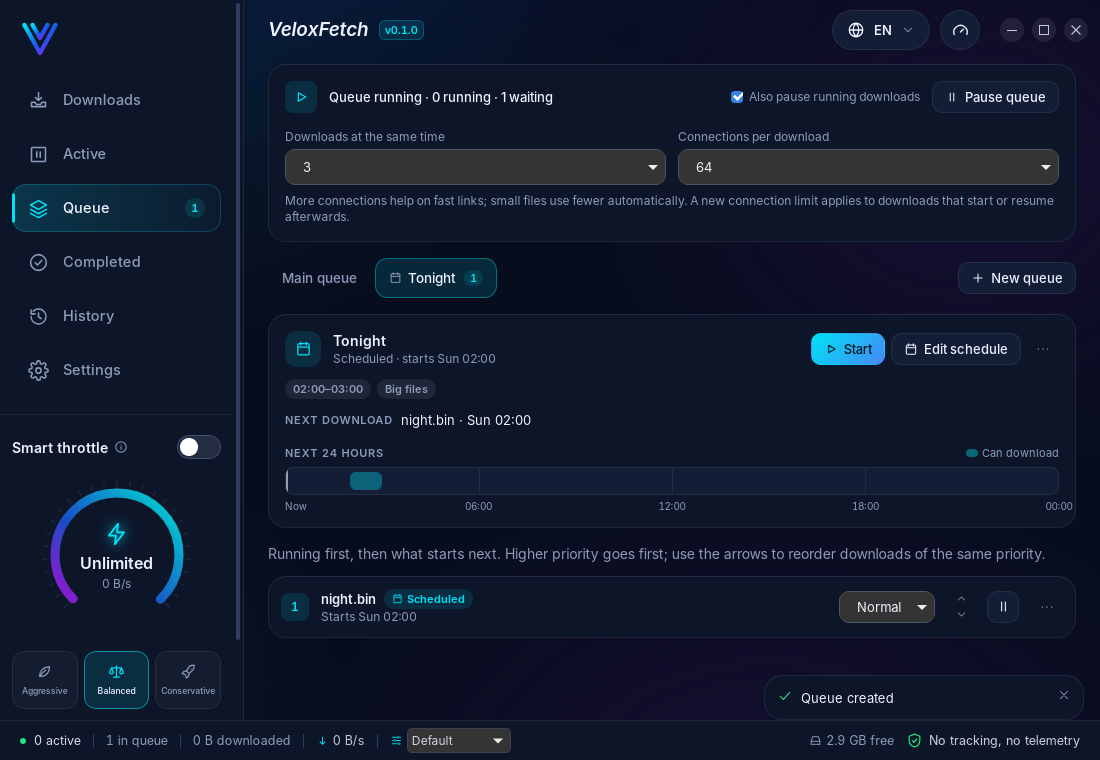
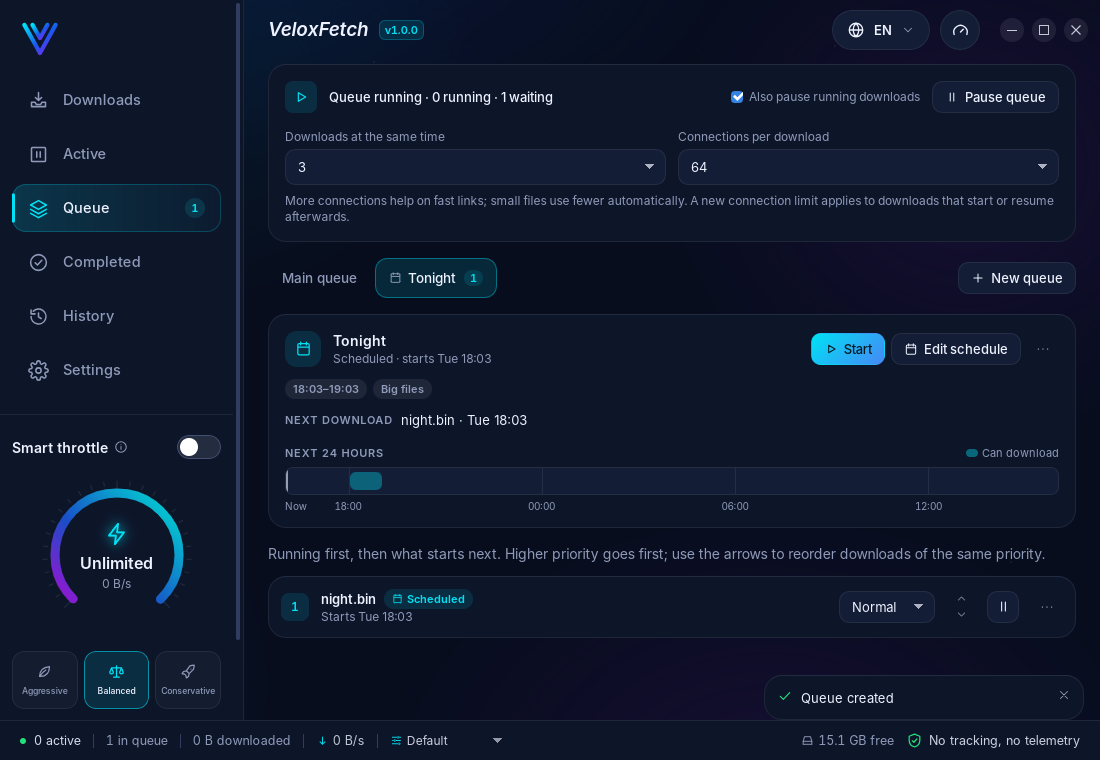
fix: the Queue page's percentages have one decimal, and a download not started yet is named by its link in duplicate answers
The queue's rows showed the raw share (11.992703192112195%): formatPercent gives one decimal everywhere.
A never-started download has no file name yet, so a duplicate answer and the Check link warning showed an
empty one; it is now named by its link's last path part (made safe, else "download"), never the link.
Tests: format.test.ts, desktop-smart-queue.mjs (fails on the old code), duplicates.rs +2. Docs updated.

Claude-Session: https://claude.ai/code/session_018xqgtTPaKDgwEeLobAKTu8

diff --git a/apps/desktop/src/views/DetailView.tsx b/apps/desktop/src/views/DetailView.tsx
@@ -12,7 +12,7 @@ import { PreviewCard } from "../components/PreviewCard";
 import { FileIcon, kindLabel } from "../components/FileIcon";
 import { SignInDialog } from "../components/SignInDialog";
 import { SegmentMap, SegmentRows } from "../components/SegmentMonitor";
-import { formatBytes, formatEta, formatSpeed, fraction, parseRate, percent } from "../format";
+import { formatBytes, formatEta, formatPercent, formatSpeed, fraction, parseRate } from "../format";
 import { useDetail, useDownload } from "../hooks";
 import { PRIORITIES, type Diagnosis, type Priority } from "../types";
 import { Icon } from "../ui/icons";
@@ -170,7 +170,7 @@ export function DetailView({ id, onBack }: { id: number; onBack: () => void }) {
       <Card title={t("det.overview")}>
         <div className="mb-3 flex items-end justify-between">
           <span className="num text-3xl font-semibold leading-none tracking-tight" data-testid="detail-percent">
-            {d.totalSize ? `${percent(d.downloaded, d.totalSize).toFixed(1)}%` : "—"}
+            {d.totalSize ? formatPercent(d.downloaded, d.totalSize) : "—"}
           </span>
           <span className="num text-xs text-dim">
             {formatBytes(d.downloaded)}

diff --git a/apps/desktop/src/components/SmartQueue.tsx b/apps/desktop/src/components/SmartQueue.tsx
@@ -1,7 +1,7 @@
 import { memo, useEffect, useRef, useState } from "react";
 import { createPortal } from "react-dom";
 import { actions } from "../actions";
-import { formatEta, fraction, hostOf, percent } from "../format";
+import { formatEta, formatPercent, fraction, hostOf } from "../format";
 import { useDownload, useStore } from "../hooks";
 import { localError } from "../errors";
 import { t as tr, useT, type Key } from "../i18n";
@@ -305,7 +305,7 @@ export const SmartQueueRow = memo(function SmartQueueRow({ id, position, order, 
         </div>
         <p className="truncate text-xs text-dim" data-testid="sq-why">
           {why ? reasonText(why, d, q) : state === "failed" ? (d.error ? localError(d.errorCode, d.error) : hostOf(d.url)) : hostOf(d.url)}
-          {showBar && d.totalSize ? ` · ${percent(d.downloaded, d.totalSize)}%` : ""}
+          {showBar && d.totalSize ? ` · ${formatPercent(d.downloaded, d.totalSize)}` : ""}
         </p>
         {showBar && <ProgressBar className="mt-1.5" value={frac} live={state === "downloading"} tone={state === "downloading" ? "accent" : state === "retrying" || state === "paused" ? "warn" : "dim"} label={d.filename} />}
       </div>

diff --git a/apps/desktop/src/format.test.ts b/apps/desktop/src/format.test.ts
@@ -1,5 +1,5 @@
 import { describe, expect, it } from "vitest";
-import { formatBytes, formatEta, formatRelative, formatSpeed, fraction, hostOf, isStreamLink, isVideoPage, opensVideoDialog, parseRate, percent } from "./format";
+import { formatBytes, formatEta, formatRelative, formatSpeed, fraction, hostOf, isStreamLink, isVideoPage, opensVideoDialog, parseRate, percent, formatPercent } from "./format";
 
 describe("format", () => {
   it("formats bytes and speeds", () => {
@@ -27,6 +27,10 @@ describe("format", () => {
     expect(percent(5, 0)).toBe(0);
     expect(percent(5, null)).toBe(0);
     expect(percent(500, 100)).toBe(100);
+    // Shown with one decimal everywhere (the queue's rows showed the raw number).
+    expect(formatPercent(1_234_567, 10_294_967)).toBe("12.0%");
+    expect(formatPercent(0, 0)).toBe("0.0%");
+    expect(formatPercent(7, 7)).toBe("100.0%");
     expect(fraction(1, 4)).toBe(0.25);
   });
 

diff --git a/apps/desktop/src/format.ts b/apps/desktop/src/format.ts
@@ -49,6 +49,11 @@ export function percent(done: number, total: number | null | undefined): number 
   return Math.min(100, Math.max(0, (done / total) * 100));
 }
 
+/** A share as the app shows it: one decimal ("12.0%"), never the raw number ("11.992703192112195%"). */
+export function formatPercent(done: number, total: number | null | undefined): string {
+  return `${percent(done, total).toFixed(1)}%`;
+}
+
 /** 0..1 fraction, clamped. */
 export function fraction(done: number, total: number | null | undefined): number {
   return percent(done, total) / 100;

diff --git a/tests/integration/tests/duplicates.rs b/tests/integration/tests/duplicates.rs
@@ -7,7 +7,7 @@ use std::path::PathBuf;
 use std::time::{Duration, Instant};
 
 use download_manager::intelligence::{AnalyzeLink, CheckDuplicate, Confidence, DuplicateDto, DuplicateReason, FileState};
-use download_manager::{DownloadDto, DownloadManager, ManagerConfig, NewDownload};
+use download_manager::{DownloadDto, DownloadManager, ManagerConfig, NewDownload, PauseQueue};
 use downloader_core::DownloadStatus;
 use sha2::{Digest, Sha256};
 use velox_integration_tests::{random_data, serve};
@@ -232,4 +232,34 @@ async fn malformed_links_are_refused_without_touching_anything() {
         assert!(m.check_duplicate(CheckDuplicate { url: bad.into(), checksum: None }).await.is_err(), "{bad}");
     }
     assert!(m.list_downloads(Default::default()).await.unwrap().is_empty());
+}
+
+#[tokio::test]
+async fn a_download_that_has_not_started_yet_is_named_by_its_link() {
+    // A waiting download has no file name yet (it is chosen when it starts): the match is still told by a name, the one
+    // the card shows, never an empty one ("In your list:  · same link").
+    let srv = serve(random_data(64 * KB, 3)).await;
+    let m = manager("unstarted").await;
+    m.pause_queue(PauseQueue { pause_running: false }).await.unwrap();
+    let waiting = add(&m, srv.url("/iso/debian-13.1.0-amd64-netinst.iso")).await;
+    assert_eq!(m.get_download(waiting.id).await.unwrap().status, DownloadStatus::Queued);
+    let d = dup(&m, srv.url("/iso/debian-13.1.0-amd64-netinst.iso")).await.expect("the waiting download is found");
+    assert_eq!((d.id, d.filename.as_str()), (Some(waiting.id), "debian-13.1.0-amd64-netinst.iso"));
+    let a = m.analyze_link(AnalyzeLink { url: Some(srv.url("/iso/debian-13.1.0-amd64-netinst.iso")) }).await.unwrap().unwrap();
+    assert_eq!(a.duplicate.unwrap().filename, "debian-13.1.0-amd64-netinst.iso");
+    let warned = a.findings.iter().find(|f| format!("{:?}", f.code) == "Duplicate").expect("the duplicate warning");
+    assert_eq!(warned.detail.as_deref(), Some("debian-13.1.0-amd64-netinst.iso"), "the warning names it too");
+}
+
+#[tokio::test]
+async fn a_waiting_download_without_a_name_in_its_path_never_shows_its_link() {
+    // Nothing in the path to name it by: a neutral word, never the link and its query (it may hold a token).
+    let srv = serve(random_data(16 * KB, 4)).await;
+    let m = manager("unstarted-noname").await;
+    m.pause_queue(PauseQueue { pause_running: false }).await.unwrap();
+    let url = srv.url("/?token=E2E_SECRET_TOKEN");
+    add(&m, url.clone()).await;
+    let d = dup(&m, url).await.expect("found");
+    assert_eq!(d.filename, "download");
+    assert!(!format!("{d:?}").contains("E2E_SECRET_TOKEN"));
 }

diff --git a/crates/download-manager/src/manager/intelligence.rs b/crates/download-manager/src/manager/intelligence.rs
@@ -184,13 +184,20 @@ impl DownloadManager {
         let mut out: Vec<Known> = list
             .into_iter()
             .map(|r| {
-                // A never-started record holds its folder, not yet a file.
-                let destination = (!r.is_unstarted()).then_some(r.destination);
+                // A never-started record holds its folder, not yet a file, and no file name: it is named by what its
+                // link suggests (the last part of the path, made safe; never the whole link, which may carry a
+                // secret), never by an empty name.
+                let destination = (!r.is_unstarted()).then(|| r.destination.clone());
+                let filename = if r.filename.is_empty() {
+                    Url::parse(&r.url).map(|u| link_name(&u)).unwrap_or_else(|_| "download".to_string())
+                } else {
+                    r.filename.clone()
+                };
                 Known {
                     id: r.id,
                     history_id: None,
                     url: r.url,
-                    filename: r.filename,
+                    filename,
                     status: Some(r.status),
                     etag: r.etag,
                     last_modified: r.last_modified,

diff --git a/docs/smart-duplicate-detection.md b/docs/smart-duplicate-detection.md
@@ -152,6 +152,12 @@ matches:
 * The DTO carries the file name, ids, status, reason, confidence and file state. It never carries the link, the
   path, credentials, cookies or query parameters. Test: `secrets_of_the_link_are_never_part_of_the_answer` checks
   that the signature, token, user name, password and path are absent.
+* A download that has not started yet has no file name (it is chosen when it starts). Until October 2026 the match
+  was then told with an empty name ("In your list:  · same link", "downloaded before: ."). It is now named by what
+  its link suggests: the last part of the path, made safe, else the word "download". Never the whole link, which
+  may carry a token (`fix_queue_percent_duplicate_name`; tests
+  `a_download_that_has_not_started_yet_is_named_by_its_link`,
+  `a_waiting_download_without_a_name_in_its_path_never_shows_its_link`).
 * Nothing is deleted, cancelled, paused or overwritten because of a match. The prompt's actions are the existing
   commands, with their existing checks.
 * No path from the UI. The file actions use `FileTarget` ids (`download` / `history`), resolved and checked in Rust.
@@ -173,7 +179,8 @@ matches:
 | Where | What |
 |---|---|
 | `download-manager` unit tests (`intelligence::tests`, 6 new + 2 updated) | conservative normalisation (host case, default port, fragment vs. query, path case, scheme, port, signed links, malformed stored link); version rules (same / changed ETag, changed size, size only, date, no server answer); checksums (same under another site, changed on the same link, different elsewhere); order (running first, surer first, failed claims no file); file state mapping |
-| `tests/integration/tests/duplicates.rs` (9) | real server + database: finished download found with its file, scheme case and fragment equivalent, another query / another path not a duplicate, Check link `exact` then `possible` after the server's file changes, own-name conflict, a second copy never replaces the first; edited and deleted file; running, paused (state unchanged by the check), failed, cancelled; history-only and after a restart; checksum match under another link, other or invalid checksum; another file with the same name is a name conflict, not a duplicate, and is untouched; two identical requests at once; secrets absent; malformed links refused |
+| `tests/integration/tests/duplicates.rs` (11) | a waiting (never started) download is named by its link, in the answer and in the Check link warning; without a name in its path it is "download", never the link |
+| `tests/integration/tests/duplicates.rs` (first 9) | real server + database: finished download found with its file, scheme case and fragment equivalent, another query / another path not a duplicate, Check link `exact` then `possible` after the server's file changes, own-name conflict, a second copy never replaces the first; edited and deleted file; running, paused (state unchanged by the check), failed, cancelled; history-only and after a restart; checksum match under another link, other or invalid checksum; another file with the same name is a name conflict, not a duplicate, and is untouched; two identical requests at once; secrets absent; malformed links refused |
 | `apps/desktop/src/duplicates.test.ts` (9) | prompt per state and file state; Open only when openable; a changed version noted; history-only has no View; every combination still offers a download, and every sentence exists in en/fr/ar; window fallback |
 | `apps/desktop/src/intelligence.test.ts` | name-conflict lines (other file vs. own copy, with and without a predicted name); new keys in every language |
 | `tests/e2e/desktop-usability.mjs` | the real prompt for a finished file says it is there and offers Open, Show in folder, Download again |

diff --git a/VELOXFETCH-OVERVIEW.md b/VELOXFETCH-OVERVIEW.md
@@ -835,6 +835,7 @@ was green (Rust, vitest, policy, e2e on Linux).
 
 | Date | Branch (commit) | Kind | What changed | Doc |
 |---|---|---|---|---|
+| 2026-10-13 | `fix_queue_percent_duplicate_name` | Fix | The Queue page's rows showed the raw percentage ("11.992703192112195%"): one decimal now, like everywhere (`formatPercent`). A download not started yet was named by an empty name in duplicate answers and the Check link warning ("In your list:  · same link"): it is named by its link's last path part (never the link itself). Tests: `format.test.ts`, `desktop-smart-queue.mjs` (fails on the old code), `duplicates.rs` (+2). | `docs/smart-download-queue.md`, `docs/smart-duplicate-detection.md` |
 | 2026-10-13 | `fix_select_field_theme` | Fix | Closed drop-down fields were grey system buttons on Linux (WebKitGTK ignores a `<select>`'s background with the system look on): every `<select>` is now drawn by the app (`appearance: none`, a gradient arrow, the `.input` surface), light, dark and right-to-left. `desktop-ui.mjs` checks it (fails without the fix). Screenshots refreshed. | `docs/ui-performance.md` |
 | 2026-10-13 | `phase21_release_candidate` | Phase 21 | Version 1.0.0 everywhere (policy test keeps them equal). Every text the user reads is in their language: video job errors get a code (`errorCode`, `localMediaError`), the Queue page's error and the toast close button were English, the diagnostics timeline is said by the shape of its lines (`timeline.ts`), and the ~80 messages a command can be refused with by their exact text (`messages.ts`, checked against the Rust sources); `desktop-i18n.mjs` scans French and Arabic. Security gate passed, `cargo machete` clean. Release-candidate gate and the owner's steps documented. | `docs/release-candidate.md` |
 | 2026-10-13 | `phase20_benchmarks` | Phase 20 | `tests/bench` (`velox-bench`): a local server in its own process, each case in a fresh process with the real engine and SQLite store; MB/s, CPU, peak RAM, DB time, time after the last byte; every file SHA-256-checked; `db` measures one progress save. `desktop-perf.mjs` adds IPC latency (p95 1 ms). Found and fixed: the final checkpoint hashed every segment again (the periodic ones hashed into their own copy of the record), reading the whole file after the last byte: now running hashes continue checkpoint by checkpoint and finished ones are kept for the run (`verify::RunningHashes`); 4 GiB at 400 MB/s 2.0 s → 38 ms after the last byte. `ProgressHandle::downloaded()`. | `docs/benchmarks.md` |

diff --git a/docs/smart-download-queue.md b/docs/smart-download-queue.md
@@ -144,6 +144,9 @@ Limits: 16 queues, names up to 40 characters. The busy limit is at least 64 KB/s
 
 ## 5. The queue page
 
+A row's share of the file is shown with one decimal ("12.0%"), like the cards and the details page
+(`formatPercent`). Until October 2026 it showed the raw number ("11.992703192112195%").
+
 **From top to bottom:**
 1. The controls card it always had: downloads at once, connections, pause everything.
 2. The queue tabs. Each shows the number still to do, a dot while it downloads, and an icon when it is closed.
@@ -213,7 +216,7 @@ All five are main-window only:
 | `apps/desktop/src/smartQueue.test.ts` (12) | States, reasons, order, moves, next download, timeline, quick times, rule chips, editor checks, store |
 | `apps/desktop/src/selectors.test.ts` (1) | No store selector builds a new array or object on each read (that loops React; found by the e2e test) |
 | `tests/security/policy.test.mjs` (+1) | Main window only, strict requests, validated rules, no socket or request to read the connection, no power action from the queues |
-| `tests/e2e/desktop-smart-queue.mjs` (47 checks) | The real app: tabs, editor and setups, a closed window holding a download, Start / Pause, Start at with the timeline, Start now, moving with the arrows changing which one gets the slot, the Add dialog, Clear completed, delete, hostile IPC, no CSP or script errors |
+| `tests/e2e/desktop-smart-queue.mjs` (48 checks) | A running row's percentage has one decimal (fails with the raw number). The real app: tabs, editor and setups, a closed window holding a download, Start / Pause, Start at with the timeline, Start now, moving with the arrows changing which one gets the slot, the Add dialog, Clear completed, delete, hostile IPC, no CSP or script errors |
 
 ## 8. Limits and next steps
 

diff --git a/docs/security.md b/docs/security.md
@@ -311,7 +311,8 @@ and were added with the same rules as everything else (threats 17 and 18 in `doc
 * **Speed limits per kind of file** (Settings > Speed); a download without a category of its own shares the limit of its kind.
 * **Errors in plain words** (`download_manager::explain`), with the engine's message kept for the details view.
 * **Smart Duplicate Detection** (`check_duplicate`, main window only, read-only, no network): it answers with the file
-  name, ids, state, confidence and file state, never with the link, its query / signature, credentials or a path. A
+  name, ids, state, confidence and file state, never with the link, its query / signature, credentials or a path (a
+  download not started yet is named by its link's last path part, made safe, else "download": never the link). A
   match never deletes, cancels, pauses or overwrites anything; the prompt's actions are the existing commands with
   their checks (`FileTarget` ids, download folders, programs never opened). A finished file is only looked at
   (`metadata`) inside the download folders, and never read or hashed. A taken file name is a separate "name

diff --git a/docs/architecture.md b/docs/architecture.md
@@ -261,7 +261,8 @@ The read-only check before a download (full description: `docs/download-intellig
     numbered name it would get (`downloader_core::numbered_name`, the engine's rule).
 * **`check_duplicate`** (Smart Duplicate Detection): the same matching for the Add bar, with no network request. The
   link is prepared as `create_download` stores it (credentials split, share links made direct). It returns
-  `DuplicateDto | null`; the UI's `duplicates.ts` turns that into a prompt for each state. It is advisory: nothing
+  `DuplicateDto | null` (a never-started download is named by its link's last path part); the UI's `duplicates.ts`
+  turns that into a prompt for each state. It is advisory: nothing
   existing is changed, and the engine's `claim_name` still keeps every copy in its own file.
 * **`Downloader::connection_plan(size)`** is `planner::connection_limits` with the engine's current settings, so the
   recommended start is the engine's own; the adaptive controller still tunes it while the download runs.

diff --git a/docs/manual-test.md b/docs/manual-test.md
@@ -471,6 +471,11 @@ Needs two signed releases (x.y.z installed, a newer one published with `latest.j
 2. With downloads running, the window scrolls smoothly and buttons answer at once.
 3. Optional: `velox-bench run --sizes 1G --conns 1,16,64` (`docs/benchmarks.md`) on that machine; every file "exact".
 
+## AJ. Numbers and names in lists (once per OS)
+1. Queue page, a download running: its line says "host · 12.3%" (one decimal), never a long number.
+2. Pause the queue, add a link, then Add download > the same link > Check link: "In your list: <file name> · same
+   link", with the name the card shows (never an empty name).
+
 ## AI. Languages (once per OS)
 1. Settings > Appearance > Language: Français, then العربية. Every page, Settings section and dialog reads in that
    language (Arabic from right to left).
